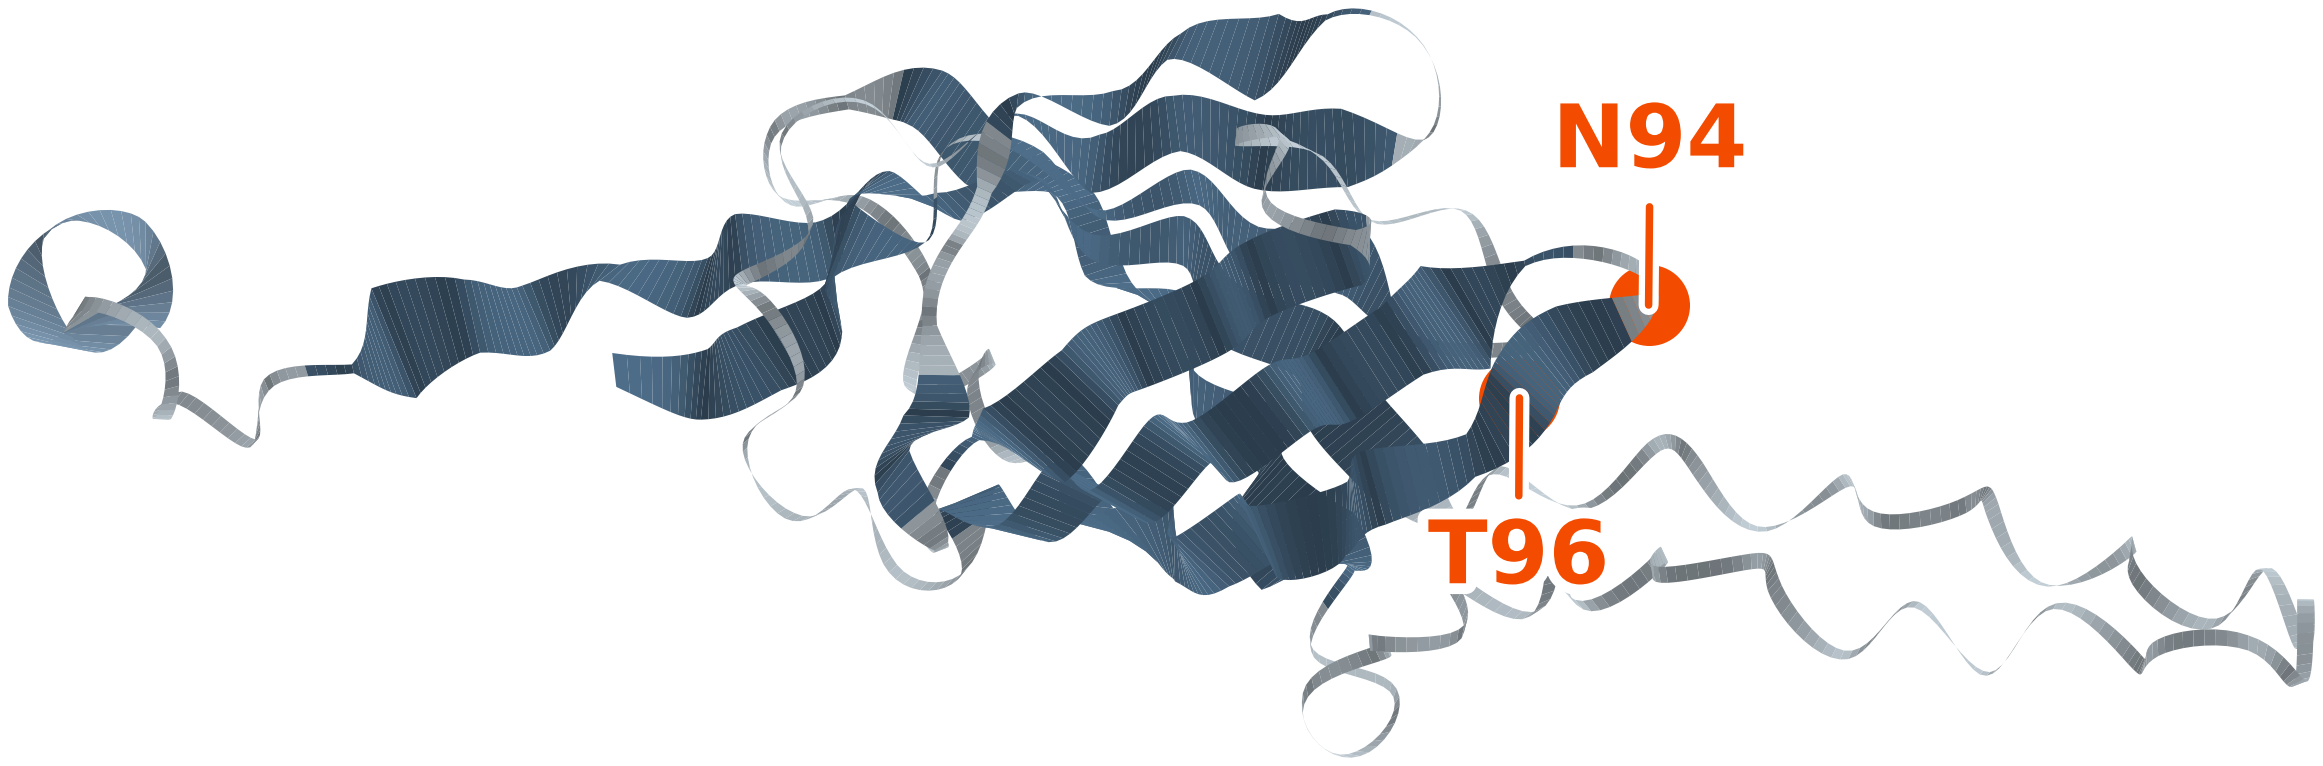
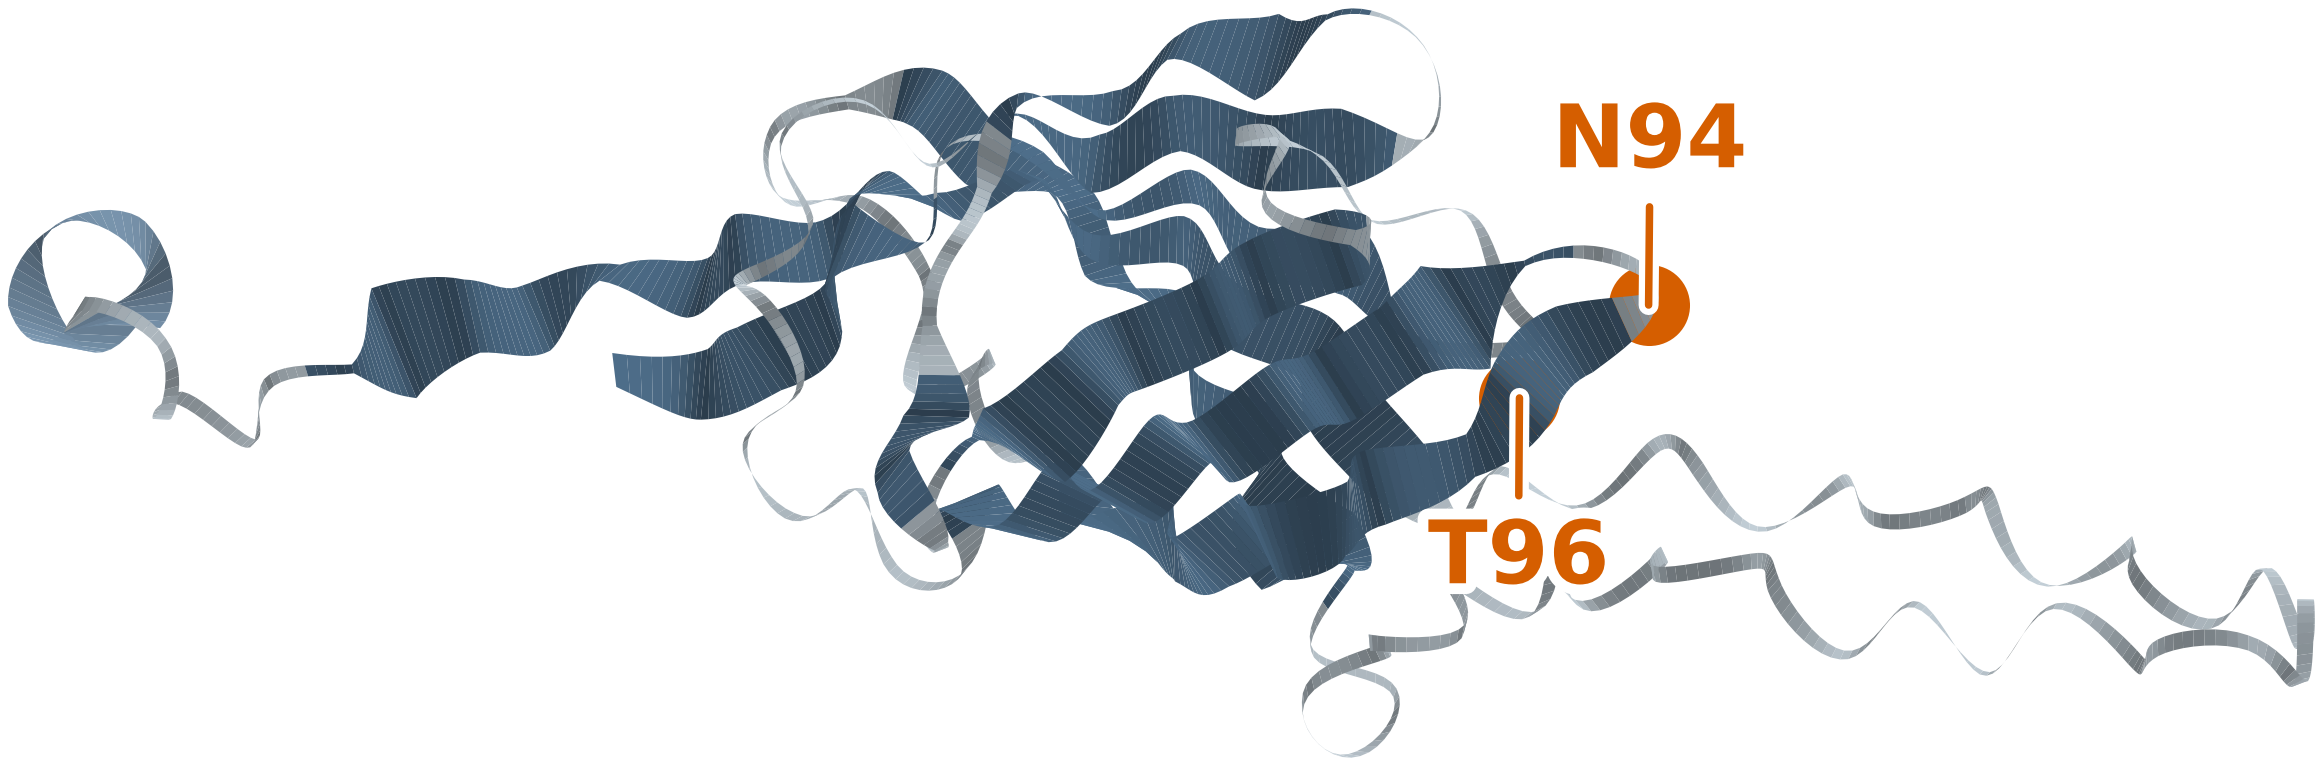
Move Figure 4 onto an Okabe-Ito palette, defined in one place
scripts/figure_palette.R is now the only place a figure colour is defined.
Figure 4 and n2_swap_panels.R source it instead of declaring their own, which
is the pattern the remaining scripts would follow.

Okabe-Ito, chosen for colour-vision deficiency. It replaces a hand-assembled
palette whose peak marker was brick red and whose eigen threshold was green --
the two drawn on the same Manhattan panels, and the one pairing a red-green
deficiency collapses outright. N2 takes the orange it has by convention, and
JU1793 moves off the orange it used to have, to blue.

Eight hues cover thirteen roles, so three are reused; each reuse is between
roles that never share a panel, and the file states which so the property can
be preserved. Crosses deliberately take a parent's colour. The file also records
what the palette does NOT survive: #0072B2 and #009E73 have nearly the same
lightness, so a figure that must read in greyscale needs linetype, shape or a
direct label as a second channel.

The structure renderers needed it too, which was not obvious from the R side.
Both carried #F34C00 for the focal residue -- sid2_ribbon_render.py said so in
its comment, "the JU1793 strain colour: the model is the 96T allele" -- so
recolouring only the R scripts would have left panels C and D on the old
palette, with T96 orange while orange now means N2. The focal residue becomes
its own role, COL_FOCAL, at Okabe-Ito vermillion: blue would have collided with
[…]

diff --git a/scripts/sid2_ribbon_render.py b/scripts/sid2_ribbon_render.py
@@ -72,7 +72,7 @@ SSE_COL = {"H": "#7E9BB5", "E": "#4E6E8A", "C": "#C4D0D8"}
 CHARGE_COL = {"ARG": "#3B6FB6", "LYS": "#3B6FB6", "HIS": "#8E6BAF",
               "ASP": "#C0392B", "GLU": "#C0392B"}
 CHARGE_NEUTRAL = "#D5DCE1"
-COL_MARK = "#F34C00"   # the JU1793 strain colour: the model is the 96T allele
+COL_MARK = "#D55E00"   # COL_FOCAL in scripts/figure_palette.R -- keep in step
 ## white fill with a dark ring: a filled dark marker disappeared against the
 ## dark ribbon, and any single colour fails somewhere on a coloured surface
 COL_FILL = "#FFFFFF"

diff --git a/scripts/sid2_zoom_render.py b/scripts/sid2_zoom_render.py
@@ -54,7 +54,7 @@ PDB = Path("supplemental_data/structure/sid2_membrane_oriented.pdb")
 OUT = Path("plots/assets")
 OUT.mkdir(parents=True, exist_ok=True)
 
-COL_T96  = "#F34C00"
+COL_T96  = "#D55E00"   # COL_FOCAL in scripts/figure_palette.R -- keep in step
 COL_FUNC = "#16324A"      # histidine mutagenesis (McEwan 2012)
 COL_ALLELE = "#7A4E8C"    # the qt13 loss-of-function allele, D34
 COL_STICK = {"C": "#4A5A66", "N": "#2F6FB5", "O": "#C0392B", "S": "#C9A227"}
